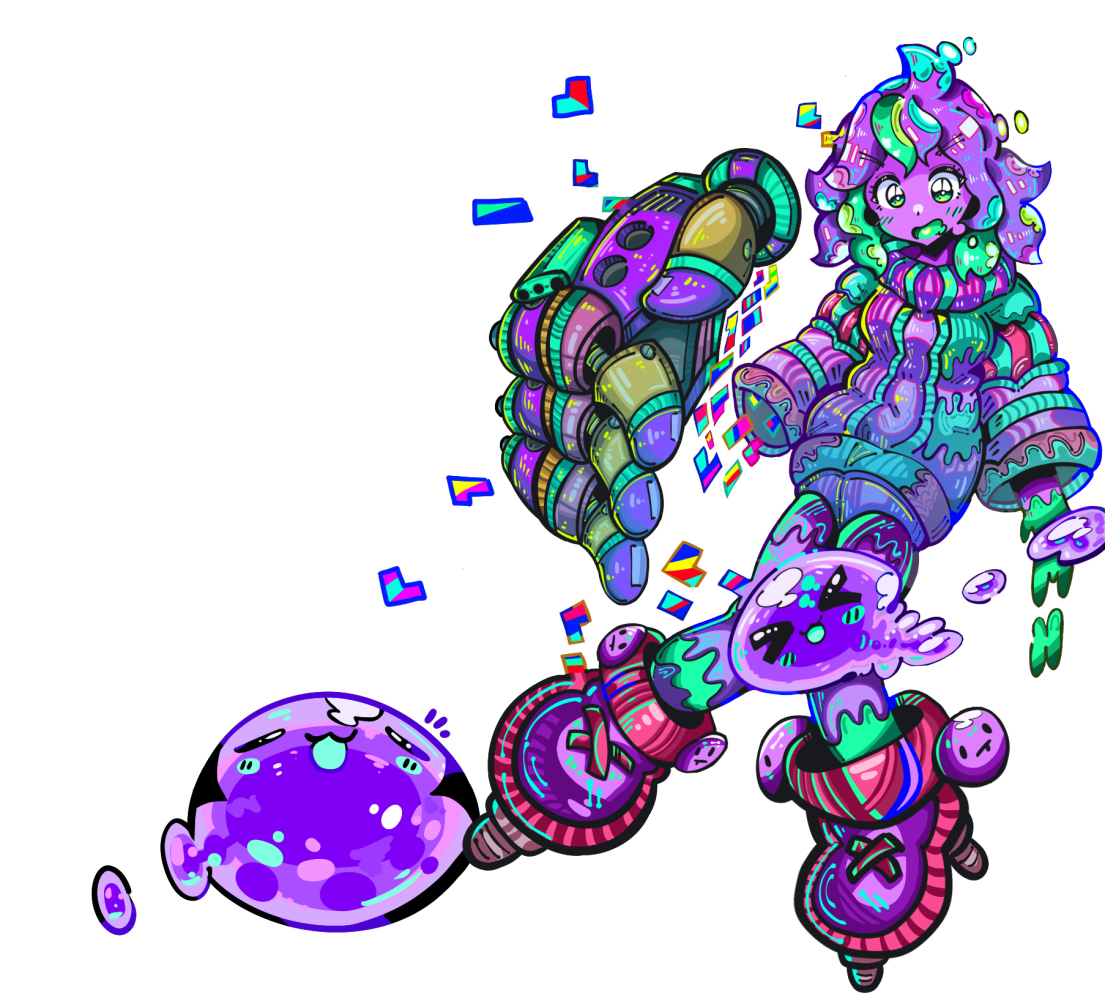
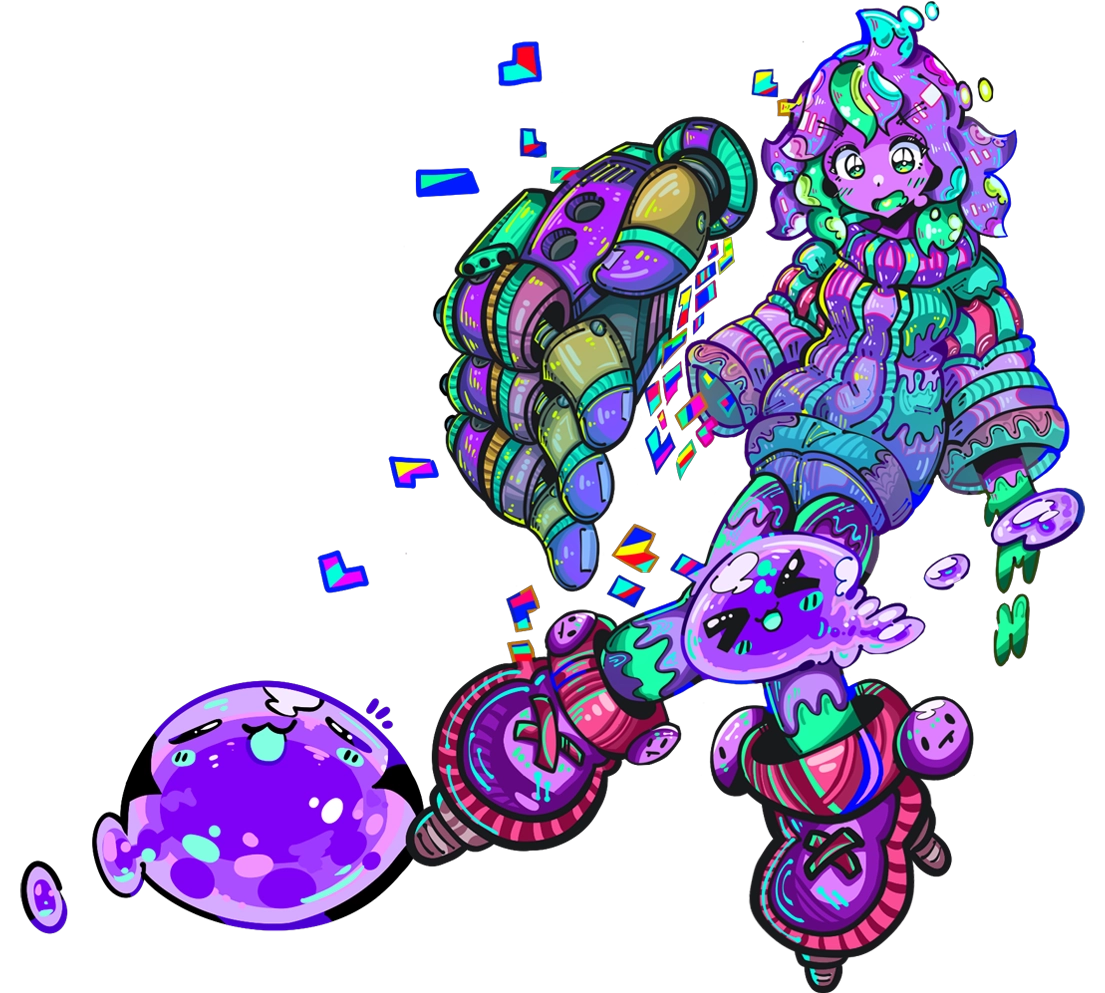
Minor fixes for website (#9)
* fix navbar separators

uwu~~

* download-btn-hover

:3

* nighty not cuted arm

lil slime on left arm now better

diff --git a/src/components/Navbar.tsx b/src/components/Navbar.tsx
@@ -22,23 +22,23 @@ export const NavItems: Component = () => {
             .getElementById("download")
             .scrollIntoView({ behavior: "smooth", block: "center" });
         }}
-        class="link p-2"
+        class="link px-2"
       >
         <Typography tag="span" key="navbar.download" />
       </A>
-      <a href="https://discord.gg/SlimeVR" target="_blank" class="link p-2">
+      <a href="https://discord.gg/SlimeVR" target="_blank" class="link px-2">
         <Typography key="navbar.discord" tag="span" />
       </a>
-      <a href="https://shop.slimevr.dev/" class="link p-2">
+      <a href="https://shop.slimevr.dev/" class="link px-2">
         <Typography key="navbar.shop" tag="span" />
       </a>
-      <a href="https://github.com/SlimeVR" target="_blank" class="link p-2">
+      <a href="https://github.com/SlimeVR" target="_blank" class="link px-2">
         <Typography key="navbar.github" tag="span" />
       </a>
       <a
         href="https://shop.slimevr.dev/pages/support"
         target="_blank"
-        class="link p-2"
+        class="link px-2"
       >
         <Typography tag="span" key="navbar.support" />
       </a>

diff --git a/src/components/home/DownloadSection.tsx b/src/components/home/DownloadSection.tsx
@@ -57,7 +57,7 @@ export const DownloadButton: ParentComponent<DownloadButtonProps> = (
         {prefixIcon()}
       </div>
       <div class="flex flex-col flex-grow">{props.children}</div>
-      <div class="flex w-9">
+      <div class="flex w-9 group-hover:translate-y-1 transition-transform duration-2">
         <DonwloadIcon size={30} class="fill-background-10"></DonwloadIcon>
       </div>
     </A>
